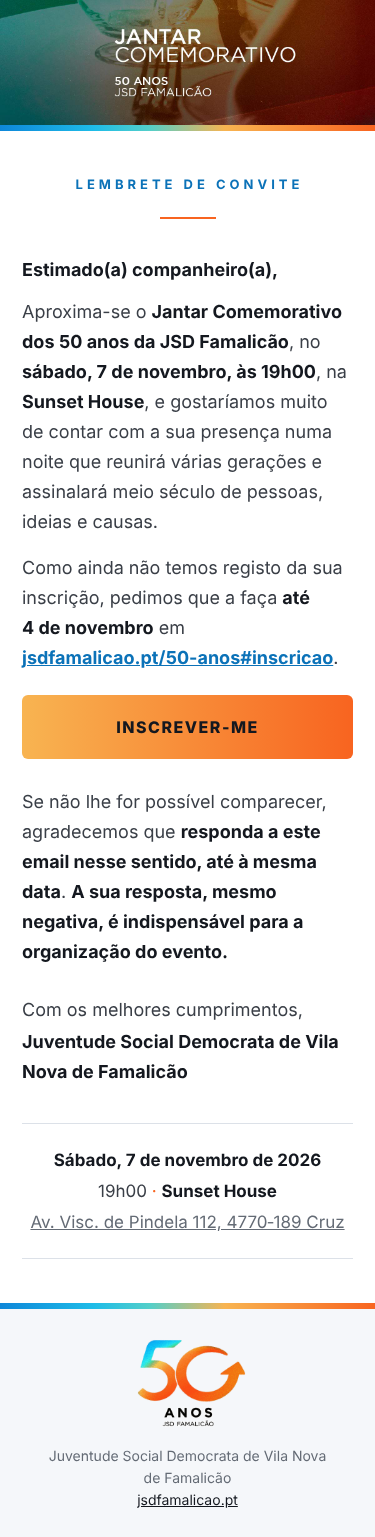
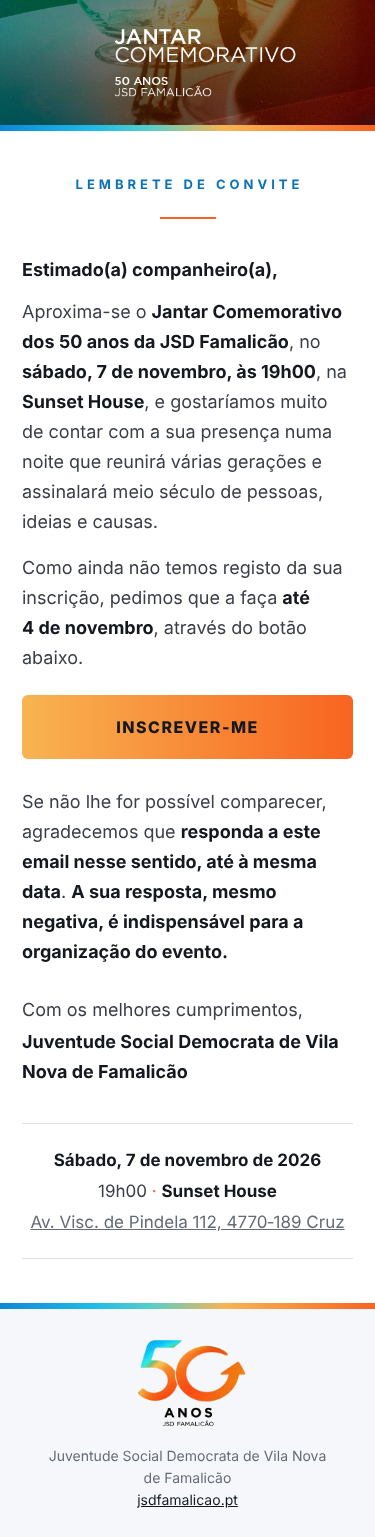
Email: follow-up institucional só com o botão de inscrição, sem o link no texto
Claude-Session: https://claude.ai/code/session_01HmCa1vTjDHZDtaefdz4YMz

Changed region(s): [[0.0587, 0.406, 0.88, 0.4372]]

diff --git a/email/jsd-50-anos-institucional-followup/copiar-email.html b/email/jsd-50-anos-institucional-followup/copiar-email.html
@@ -47,7 +47,7 @@
   </div>
 </main>
 <script>
-  const CONVITES = {"followup": {"html": "<!DOCTYPE html>\n<html lang=\"pt-PT\">\n<head>\n  <meta charset=\"UTF-8\">\n  <meta name=\"viewport\" content=\"width=device-width, initial-scale=1.0\">\n  <meta name=\"color-scheme\" content=\"light only\">\n  <meta name=\"supported-color-schemes\" content=\"light only\">\n  <meta name=\"format-detection\" content=\"telephone=no, date=no, address=no, email=no\">\n  <meta name=\"x-apple-disable-message-reformatting\">\n  <title>Convite · Jantar Comemorativo dos 50 anos da JSD Famalicão · Pedido de resposta<\/title>\n  <style>\n    body { -webkit-text-size-adjust:100%; -ms-text-size-adjust:100%; }\n    :root { color-scheme:light only; supported-color-schemes:light only; }\n    a[x-apple-data-detectors] { color:inherit !important; text-decoration:none !important; font-size:inherit !important; font-family:inherit !important; font-weight:inherit !important; line-height:inherit !important; }\n    @media only screen and (max-width:600px) {\n      .px          { padding-left:22px !important; padding-right:22px !important; }\n      .t-etiqueta  { font-size:13px !important; line-height:18px !important; }\n      .t-corpo     { font-size:18px !important; line-height:30px !important; }\n      .t-lead2     { font-size:20px !important; line-height:28px !important; }\n      .t-dados     { font-size:17px !important; line-height:28px !important; }\n      .t-ligacao   { font-size:14px !important; line-height:22px !important; }\n      .t-rodape    { font-size:14px !important; line-height:22px !important; }\n      .btn-tabela  { width:100% !important; }\n      .btn         { display:block !important; padding:21px 12px !important; font-size:16px !important; }\n    }\n  <\/style>\n<\/head>\n\n<!-- Gerado por src/gerar.py. Banner e barras a toda a largura; texto numa coluna de até 1040 px. -->\n\n<body style=\"margin:0; padding:0; background-color:#FFFFFF;\">\n\n  <div style=\"display:none; max-height:0; overflow:hidden; opacity:0; font-size:1px; line-height:1px; color:#FFFFFF;\">\n    Reiteramos o convite para 7 de novembro e agradecemos a sua resposta. Inscrição até 4 de novembro.\n    &#8199;&#847;&#8199;&#847;&#8199;&#847;&#8199;&#847;&#8199;&#847;&#8199;&#847;&#8199;&#847;&#8199;&#847;\n  <\/div>\n\n  <table role=\"presentation\" width=\"100%\" cellpadding=\"0\" cellspacing=\"0\" border=\"0\" bgcolor=\"#FFFFFF\" style=\"min-width:100%; background-color:#FFFFFF; font-family:Montserrat,'Helvetica Neue',Helvetica,Arial,sans-serif; -webkit-text-size-adjust:100%; -ms-text-size-adjust:100%; color-scheme:light only;\">\n\n    <tr>\n      <td align=\"center\" bgcolor=\"#554835\" style=\"background-color:#554835; font-size:0; line-height:0; text-align:center;\">\n        <img src=\"https://raw.githubusercontent.com/filipaf18/filipa-freitas-portfolio/213aef5628d4d71de076a4b38431e48593f2542e/email/jsd-50-anos-ultimas-inscricoes/imagens/banner.jpg\" width=\"640\" alt=\"Jantar Comemorativo. 50 anos JSD Famalicão.\"\n             style=\"display:block; min-width:100%; max-width:100%; height:auto; border:0; outline:none; color:#FFFFFF; font-family:Montserrat,'Helvetica Neue',Helvetica,Arial,sans-serif; font-size:20px; line-height:28px; text-align:center;\">\n      <\/td>\n    <\/tr>\n    <tr>\n      <td height=\"6\" bgcolor=\"#F86420\" style=\"height:6px; font-size:6px; line-height:6px; background-color:#F86420; background-image:linear-gradient(90deg,#0E87D9 0%,#1EBCE8 25%,#54CFC9 40%,#F8B451 60%,#F86420 100%);\">&nbsp;<\/td>\n    <\/tr>\n\n    <tr>\n      <td style=\"padding:0;\">\n        <table role=\"presentation\" align=\"center\" width=\"100%\" cellpadding=\"0\" cellspacing=\"0\" border=\"0\" style=\"max-width:1040px; margin:0 auto;\">\n\n          <tr>\n            <td class=\"px t-etiqueta\" align=\"center\" style=\"padding:44px 24px 0px 24px; font-family:Montserrat,'Helvetica Neue',Helvetica,Arial,sans-serif; font-size:12px; line-height:16px; font-weight:700; letter-spacing:4px; color:#0B72B8; text-align:center;\">LEMBRETE DE CONVIT<span style=\"letter-spacing:0;\">E<\/span><\/td>\n          <\/tr>\n          <tr>\n            <td align=\"center\" style=\"padding:24px 24px 0px 24px; text-align:center;\">\n              <table role=\"presentation\" align=\"center\" cellpadding=\"0\" cellspacing=\"0\" border=\"0\" style=\"margin:0 auto;\">\n                <tr><td width=\"56\" height=\"2\" bgcolor=\"#F86420\" style=\"width:56px; height:2px; background-color:#F86420; font-size:2px; line-height:2px;\">&nbsp;<\/td><\/tr>\n              <\/table>\n            <\/td>\n          <\/tr>\n          <tr>\n            <td class=\"px t-corpo\" align=\"left\" style=\"padding:36px 24px 0px 24px; font-family:Montserrat,'Helvetica Neue',Helvetica,Arial,sans-serif; font-size:16px; line-height:27px; font-weight:700; color:#14181F; text-align:left;\">Estimado(a) companheiro(a),<\/td>\n          <\/tr>\n          <tr>\n            <td class=\"px t-corpo\" align=\"left\" style=\"padding:12px 24px 0px 24px; font-family:Montserrat,'Helvetica Neue',Helvetica,Arial,sans-serif; font-size:16px; line-height:27px; color:#3A3F47; text-align:left;\">Aproxima-se o <strong style=\"color:#14181F;\">Jantar Comemorativo dos 50&nbsp;anos da JSD Famalicão<\/strong>, no <strong style=\"color:#14181F;\">sábado, 7&nbsp;de&nbsp;novembro, às&nbsp;19h00<\/strong>, na <strong style=\"color:#14181F;\">Sunset&nbsp;House<\/strong>, e gostaríamos muito de contar com a sua presença numa noite que reunirá várias gerações e assinalará meio século de pessoas, ideias e causas.<\/td>\n          <\/tr>\n          <tr>\n            <td class=\"px t-corpo\" align=\"left\" style=\"padding:16px 24px 0px 24px; font-family:Montserrat,'Helvetica Neue',Helvetica,Arial,sans-serif; font-size:16px; line-height:27px; color:#3A3F47; text-align:left;\">Como ainda não temos registo da sua inscrição, pedimos que a faça <strong style=\"color:#14181F;\">até 4&nbsp;de&nbsp;novembro<\/strong> em <a href=\"https://jsdfamalicao.pt/50-anos#inscricao\" style=\"color:#0B72B8; text-decoration:underline; font-weight:700;\">jsdfamalicao.pt/50-anos#inscricao<\/a>.<\/td>\n          <\/tr>\n          <tr>\n            <td class=\"px\" align=\"center\" style=\"padding:22px 24px 0px 24px; text-align:center;\">\n              <table class=\"btn-tabela\" role=\"presentation\" width=\"100%\" cellpadding=\"0\" cellspacing=\"0\" border=\"0\" align=\"center\" style=\"max-width:340px; margin:0 auto;\">\n                <tr>\n                  <td align=\"center\" bgcolor=\"#F86420\" style=\"background-color:#F86420; background-image:linear-gradient(90deg,#F8B451 0%,#F86420 100%); border-radius:6px; text-align:center;\">\n                    <a class=\"btn\" href=\"https://jsdfamalicao.pt/50-anos#inscricao\" style=\"display:inline-block; padding:19px 20px; font-family:Montserrat,'Helvetica Neue',Helvetica,Arial,sans-serif; font-size:15px; line-height:22px; font-weight:800; letter-spacing:1.5px; color:#14181F; text-decoration:none; text-align:center;\">INSCREVER-ME<\/a>\n                  <\/td>\n                <\/tr>\n              <\/table>\n            <\/td>\n          <\/tr>\n          <tr>\n            <td class=\"px t-corpo\" align=\"left\" style=\"padding:28px 24px 0px 24px; font-family:Montserrat,'Helvetica Neue',Helvetica,Arial,sans-serif; font-size:16px; line-height:27px; color:#3A3F47; text-align:left;\">Se não lhe for possível comparecer, agradecemos que <strong style=\"color:#14181F;\">responda a este email nesse sentido, até à mesma data<\/strong>. <strong style=\"color:#14181F;\">A sua resposta, mesmo negativa, é indispensável para a organização do evento.<\/strong><\/td>\n          <\/tr>\n          <tr>\n            <td class=\"px t-corpo\" align=\"left\" style=\"padding:28px 24px 0px 24px; font-family:Montserrat,'Helvetica Neue',Helvetica,Arial,sans-serif; font-size:16px; line-height:27px; color:#3A3F47; text-align:left;\">Com os melhores cumprimentos,<\/td>\n          <\/tr>\n          <tr>\n            <td class=\"px t-corpo\" align=\"left\" style=\"padding:2px 24px 0px 24px; font-family:Montserrat,'Helvetica Neue',Helvetica,Arial,sans-serif; font-size:16px; line-height:25px; font-weight:700; color:#14181F; text-align:left;\">Juventude Social Democrata de Vila Nova de&nbsp;Famalicão<\/td>\n          <\/tr>\n          <tr>\n            <td class=\"px\" style=\"padding:36px 24px 0 24px;\">\n              <div style=\"border-top:1px solid #DCE1E8; border-bottom:1px solid #DCE1E8; padding:22px 0; text-align:center;\">\n                <div class=\"t-dados\" style=\"text-align:center; font-family:Montserrat,'Helvetica Neue',Helvetica,Arial,sans-serif; font-size:15px; line-height:26px; color:#3A3F47;\"><strong style=\"color:#14181F;\">Sábado, 7&nbsp;de&nbsp;novembro de&nbsp;2026<\/strong><\/div>\n                <div class=\"t-dados\" style=\"padding-top:3px; text-align:center; font-family:Montserrat,'Helvetica Neue',Helvetica,Arial,sans-serif; font-size:15px; line-height:26px; color:#3A3F47;\">19h00<span style=\"color:#F86420;\">&nbsp;·&nbsp;<\/span><strong style=\"color:#14181F;\">Sunset&nbsp;House<\/strong><\/div>\n                <div class=\"t-dados\" style=\"padding-top:3px; text-align:center; font-family:Montserrat,'Helvetica Neue',Helvetica,Arial,sans-serif; font-size:15px; line-height:26px; color:#3A3F47;\"><a href=\"https://www.google.com/maps/search/?api=1&amp;query=Av.+Visconde+de+Pindela+112,+4770-189+Cruz\" style=\"color:#646B75; text-decoration:underline;\">Av. Visc. de Pindela 112, 4770&#8209;189 Cruz<\/a><\/div>\n              <\/div>\n            <\/td>\n          <\/tr>\n          <tr>\n            <td class=\"px t-corpo\" align=\"left\" style=\"padding:0px 24px 44px 24px; font-family:Montserrat,'Helvetica Neue',Helvetica,Arial,sans-serif; font-size:16px; line-height:27px; color:#3A3F47; text-align:left;\"><\/td>\n          <\/tr>\n        <\/table>\n      <\/td>\n    <\/tr>\n\n    <tr>\n      <td height=\"6\" bgcolor=\"#F86420\" style=\"height:6px; font-size:6px; line-height:6px; background-color:#F86420; background-image:linear-gradient(90deg,#0E87D9 0%,#1EBCE8 25%,#54CFC9 40%,#F8B451 60%,#F86420 100%);\">&nbsp;<\/td>\n    <\/tr>\n\n    <tr>\n      <td class=\"px\" align=\"center\" bgcolor=\"#F5F7FA\" style=\"background-color:#F5F7FA; padding:28px 24px 26px 24px; font-family:Montserrat,'Helvetica Neue',Helvetica,Arial,sans-serif; text-align:center;\">\n        <table role=\"presentation\" align=\"center\" width=\"100%\" cellpadding=\"0\" cellspacing=\"0\" border=\"0\" style=\"margin:0 auto;\">\n          <tr><td align=\"center\" style=\"font-size:0; line-height:0; text-align:center;\"><table role=\"presentation\" align=\"center\" cellpadding=\"0\" cellspacing=\"0\" border=\"0\" style=\"margin:0 auto;\"><tr><td style=\"font-size:0; line-height:0;\"><img src=\"https://raw.githubusercontent.com/filipaf18/filipa-freitas-portfolio/213aef5628d4d71de076a4b38431e48593f2542e/email/jsd-50-anos-ultimas-inscricoes/imagens/logo-50-anos.png\" width=\"120\" alt=\"50 anos JSD Famalicão\" style=\"display:block; width:120px; max-width:100%; height:auto; border:0; outline:none; color:#14181F; font-family:Montserrat,'Helvetica Neue',Helvetica,Arial,sans-serif; font-size:16px; line-height:22px;\"><\/td><\/tr><\/table><\/td><\/tr>\n          <tr><td class=\"t-rodape\" align=\"center\" style=\"padding-top:16px; font-family:Montserrat,'Helvetica Neue',Helvetica,Arial,sans-serif; font-size:12px; line-height:19px; color:#646B75; text-align:center;\">Juventude Social Democrata de Vila&nbsp;Nova de&nbsp;Famalicão<br><a href=\"https://jsdfamalicao.pt\" style=\"color:#14181F; text-decoration:underline;\">jsdfamalicao.pt<\/a><\/td><\/tr>\n        <\/table>\n      <\/td>\n    <\/tr>\n\n  <\/table>\n\n<\/body>\n<\/html>\n", "texto": "LEMBRETE DE CONVITE\n\nEstimado(a) companheiro(a),\n\nAproxima-se o Jantar Comemorativo dos 50 anos da JSD Famalicão, no sábado, 7 de novembro, às 19h00, na Sunset House, e gostaríamos muito de contar com a sua presença numa noite que reunirá várias gerações e assinalará meio século de pessoas, ideias e causas.\n\nComo ainda não temos registo da sua inscrição, pedimos que a faça até 4 de novembro em jsdfamalicao.pt/50-anos#inscricao.\n\nINSCREVER-ME\n\nSe não lhe for possível comparecer, agradecemos que responda a este email nesse sentido, até à mesma data. A sua resposta, mesmo negativa, é indispensável para a organização do evento.\n\nCom os melhores cumprimentos,\n\nJuventude Social Democrata de Vila Nova de Famalicão\n\nSábado, 7 de novembro de 2026\n19h00 · Sunset House\nAv. Visc. de Pindela 112, 4770‑189 Cruz\n\nJuventude Social Democrata de Vila Nova de Famalicão\njsdfamalicao.pt", "assunto": "Convite · Jantar Comemorativo dos 50 anos da JSD Famalicão · Pedido de resposta"}};
+  const CONVITES = {"followup": {"html": "<!DOCTYPE html>\n<html lang=\"pt-PT\">\n<head>\n  <meta charset=\"UTF-8\">\n  <meta name=\"viewport\" content=\"width=device-width, initial-scale=1.0\">\n  <meta name=\"color-scheme\" content=\"light only\">\n  <meta name=\"supported-color-schemes\" content=\"light only\">\n  <meta name=\"format-detection\" content=\"telephone=no, date=no, address=no, email=no\">\n  <meta name=\"x-apple-disable-message-reformatting\">\n  <title>Convite · Jantar Comemorativo dos 50 anos da JSD Famalicão · Pedido de resposta<\/title>\n  <style>\n    body { -webkit-text-size-adjust:100%; -ms-text-size-adjust:100%; }\n    :root { color-scheme:light only; supported-color-schemes:light only; }\n    a[x-apple-data-detectors] { color:inherit !important; text-decoration:none !important; font-size:inherit !important; font-family:inherit !important; font-weight:inherit !important; line-height:inherit !important; }\n    @media only screen and (max-width:600px) {\n      .px          { padding-left:22px !important; padding-right:22px !important; }\n      .t-etiqueta  { font-size:13px !important; line-height:18px !important; }\n      .t-corpo     { font-size:18px !important; line-height:30px !important; }\n      .t-lead2     { font-size:20px !important; line-height:28px !important; }\n      .t-dados     { font-size:17px !important; line-height:28px !important; }\n      .t-ligacao   { font-size:14px !important; line-height:22px !important; }\n      .t-rodape    { font-size:14px !important; line-height:22px !important; }\n      .btn-tabela  { width:100% !important; }\n      .btn         { display:block !important; padding:21px 12px !important; font-size:16px !important; }\n    }\n  <\/style>\n<\/head>\n\n<!-- Gerado por src/gerar.py. Banner e barras a toda a largura; texto numa coluna de até 1040 px. -->\n\n<body style=\"margin:0; padding:0; background-color:#FFFFFF;\">\n\n  <div style=\"display:none; max-height:0; overflow:hidden; opacity:0; font-size:1px; line-height:1px; color:#FFFFFF;\">\n    Reiteramos o convite para 7 de novembro e agradecemos a sua resposta. Inscrição até 4 de novembro.\n    &#8199;&#847;&#8199;&#847;&#8199;&#847;&#8199;&#847;&#8199;&#847;&#8199;&#847;&#8199;&#847;&#8199;&#847;\n  <\/div>\n\n  <table role=\"presentation\" width=\"100%\" cellpadding=\"0\" cellspacing=\"0\" border=\"0\" bgcolor=\"#FFFFFF\" style=\"min-width:100%; background-color:#FFFFFF; font-family:Montserrat,'Helvetica Neue',Helvetica,Arial,sans-serif; -webkit-text-size-adjust:100%; -ms-text-size-adjust:100%; color-scheme:light only;\">\n\n    <tr>\n      <td align=\"center\" bgcolor=\"#554835\" style=\"background-color:#554835; font-size:0; line-height:0; text-align:center;\">\n        <img src=\"https://raw.githubusercontent.com/filipaf18/filipa-freitas-portfolio/213aef5628d4d71de076a4b38431e48593f2542e/email/jsd-50-anos-ultimas-inscricoes/imagens/banner.jpg\" width=\"640\" alt=\"Jantar Comemorativo. 50 anos JSD Famalicão.\"\n             style=\"display:block; min-width:100%; max-width:100%; height:auto; border:0; outline:none; color:#FFFFFF; font-family:Montserrat,'Helvetica Neue',Helvetica,Arial,sans-serif; font-size:20px; line-height:28px; text-align:center;\">\n      <\/td>\n    <\/tr>\n    <tr>\n      <td height=\"6\" bgcolor=\"#F86420\" style=\"height:6px; font-size:6px; line-height:6px; background-color:#F86420; background-image:linear-gradient(90deg,#0E87D9 0%,#1EBCE8 25%,#54CFC9 40%,#F8B451 60%,#F86420 100%);\">&nbsp;<\/td>\n    <\/tr>\n\n    <tr>\n      <td style=\"padding:0;\">\n        <table role=\"presentation\" align=\"center\" width=\"100%\" cellpadding=\"0\" cellspacing=\"0\" border=\"0\" style=\"max-width:1040px; margin:0 auto;\">\n\n          <tr>\n            <td class=\"px t-etiqueta\" align=\"center\" style=\"padding:44px 24px 0px 24px; font-family:Montserrat,'Helvetica Neue',Helvetica,Arial,sans-serif; font-size:12px; line-height:16px; font-weight:700; letter-spacing:4px; color:#0B72B8; text-align:center;\">LEMBRETE DE CONVIT<span style=\"letter-spacing:0;\">E<\/span><\/td>\n          <\/tr>\n          <tr>\n            <td align=\"center\" style=\"padding:24px 24px 0px 24px; text-align:center;\">\n              <table role=\"presentation\" align=\"center\" cellpadding=\"0\" cellspacing=\"0\" border=\"0\" style=\"margin:0 auto;\">\n                <tr><td width=\"56\" height=\"2\" bgcolor=\"#F86420\" style=\"width:56px; height:2px; background-color:#F86420; font-size:2px; line-height:2px;\">&nbsp;<\/td><\/tr>\n              <\/table>\n            <\/td>\n          <\/tr>\n          <tr>\n            <td class=\"px t-corpo\" align=\"left\" style=\"padding:36px 24px 0px 24px; font-family:Montserrat,'Helvetica Neue',Helvetica,Arial,sans-serif; font-size:16px; line-height:27px; font-weight:700; color:#14181F; text-align:left;\">Estimado(a) companheiro(a),<\/td>\n          <\/tr>\n          <tr>\n            <td class=\"px t-corpo\" align=\"left\" style=\"padding:12px 24px 0px 24px; font-family:Montserrat,'Helvetica Neue',Helvetica,Arial,sans-serif; font-size:16px; line-height:27px; color:#3A3F47; text-align:left;\">Aproxima-se o <strong style=\"color:#14181F;\">Jantar Comemorativo dos 50&nbsp;anos da JSD Famalicão<\/strong>, no <strong style=\"color:#14181F;\">sábado, 7&nbsp;de&nbsp;novembro, às&nbsp;19h00<\/strong>, na <strong style=\"color:#14181F;\">Sunset&nbsp;House<\/strong>, e gostaríamos muito de contar com a sua presença numa noite que reunirá várias gerações e assinalará meio século de pessoas, ideias e causas.<\/td>\n          <\/tr>\n          <tr>\n            <td class=\"px t-corpo\" align=\"left\" style=\"padding:16px 24px 0px 24px; font-family:Montserrat,'Helvetica Neue',Helvetica,Arial,sans-serif; font-size:16px; line-height:27px; color:#3A3F47; text-align:left;\">Como ainda não temos registo da sua inscrição, pedimos que a faça <strong style=\"color:#14181F;\">até 4&nbsp;de&nbsp;novembro<\/strong>, através do botão abaixo.<\/td>\n          <\/tr>\n          <tr>\n            <td class=\"px\" align=\"center\" style=\"padding:22px 24px 0px 24px; text-align:center;\">\n              <table class=\"btn-tabela\" role=\"presentation\" width=\"100%\" cellpadding=\"0\" cellspacing=\"0\" border=\"0\" align=\"center\" style=\"max-width:340px; margin:0 auto;\">\n                <tr>\n                  <td align=\"center\" bgcolor=\"#F86420\" style=\"background-color:#F86420; background-image:linear-gradient(90deg,#F8B451 0%,#F86420 100%); border-radius:6px; text-align:center;\">\n                    <a class=\"btn\" href=\"https://jsdfamalicao.pt/50-anos#inscricao\" style=\"display:inline-block; padding:19px 20px; font-family:Montserrat,'Helvetica Neue',Helvetica,Arial,sans-serif; font-size:15px; line-height:22px; font-weight:800; letter-spacing:1.5px; color:#14181F; text-decoration:none; text-align:center;\">INSCREVER-ME<\/a>\n                  <\/td>\n                <\/tr>\n              <\/table>\n            <\/td>\n          <\/tr>\n          <tr>\n            <td class=\"px t-corpo\" align=\"left\" style=\"padding:28px 24px 0px 24px; font-family:Montserrat,'Helvetica Neue',Helvetica,Arial,sans-serif; font-size:16px; line-height:27px; color:#3A3F47; text-align:left;\">Se não lhe for possível comparecer, agradecemos que <strong style=\"color:#14181F;\">responda a este email nesse sentido, até à mesma data<\/strong>. <strong style=\"color:#14181F;\">A sua resposta, mesmo negativa, é indispensável para a organização do evento.<\/strong><\/td>\n          <\/tr>\n          <tr>\n            <td class=\"px t-corpo\" align=\"left\" style=\"padding:28px 24px 0px 24px; font-family:Montserrat,'Helvetica Neue',Helvetica,Arial,sans-serif; font-size:16px; line-height:27px; color:#3A3F47; text-align:left;\">Com os melhores cumprimentos,<\/td>\n          <\/tr>\n          <tr>\n            <td class=\"px t-corpo\" align=\"left\" style=\"padding:2px 24px 0px 24px; font-family:Montserrat,'Helvetica Neue',Helvetica,Arial,sans-serif; font-size:16px; line-height:25px; font-weight:700; color:#14181F; text-align:left;\">Juventude Social Democrata de Vila Nova de&nbsp;Famalicão<\/td>\n          <\/tr>\n          <tr>\n            <td class=\"px\" style=\"padding:36px 24px 0 24px;\">\n              <div style=\"border-top:1px solid #DCE1E8; border-bottom:1px solid #DCE1E8; padding:22px 0; text-align:center;\">\n                <div class=\"t-dados\" style=\"text-align:center; font-family:Montserrat,'Helvetica Neue',Helvetica,Arial,sans-serif; font-size:15px; line-height:26px; color:#3A3F47;\"><strong style=\"color:#14181F;\">Sábado, 7&nbsp;de&nbsp;novembro de&nbsp;2026<\/strong><\/div>\n                <div class=\"t-dados\" style=\"padding-top:3px; text-align:center; font-family:Montserrat,'Helvetica Neue',Helvetica,Arial,sans-serif; font-size:15px; line-height:26px; color:#3A3F47;\">19h00<span style=\"color:#F86420;\">&nbsp;·&nbsp;<\/span><strong style=\"color:#14181F;\">Sunset&nbsp;House<\/strong><\/div>\n                <div class=\"t-dados\" style=\"padding-top:3px; text-align:center; font-family:Montserrat,'Helvetica Neue',Helvetica,Arial,sans-serif; font-size:15px; line-height:26px; color:#3A3F47;\"><a href=\"https://www.google.com/maps/search/?api=1&amp;query=Av.+Visconde+de+Pindela+112,+4770-189+Cruz\" style=\"color:#646B75; text-decoration:underline;\">Av. Visc. de Pindela 112, 4770&#8209;189 Cruz<\/a><\/div>\n              <\/div>\n            <\/td>\n          <\/tr>\n          <tr>\n            <td class=\"px t-corpo\" align=\"left\" style=\"padding:0px 24px 44px 24px; font-family:Montserrat,'Helvetica Neue',Helvetica,Arial,sans-serif; font-size:16px; line-height:27px; color:#3A3F47; text-align:left;\"><\/td>\n          <\/tr>\n        <\/table>\n      <\/td>\n    <\/tr>\n\n    <tr>\n      <td height=\"6\" bgcolor=\"#F86420\" style=\"height:6px; font-size:6px; line-height:6px; background-color:#F86420; background-image:linear-gradient(90deg,#0E87D9 0%,#1EBCE8 25%,#54CFC9 40%,#F8B451 60%,#F86420 100%);\">&nbsp;<\/td>\n    <\/tr>\n\n    <tr>\n      <td class=\"px\" align=\"center\" bgcolor=\"#F5F7FA\" style=\"background-color:#F5F7FA; padding:28px 24px 26px 24px; font-family:Montserrat,'Helvetica Neue',Helvetica,Arial,sans-serif; text-align:center;\">\n        <table role=\"presentation\" align=\"center\" width=\"100%\" cellpadding=\"0\" cellspacing=\"0\" border=\"0\" style=\"margin:0 auto;\">\n          <tr><td align=\"center\" style=\"font-size:0; line-height:0; text-align:center;\"><table role=\"presentation\" align=\"center\" cellpadding=\"0\" cellspacing=\"0\" border=\"0\" style=\"margin:0 auto;\"><tr><td style=\"font-size:0; line-height:0;\"><img src=\"https://raw.githubusercontent.com/filipaf18/filipa-freitas-portfolio/213aef5628d4d71de076a4b38431e48593f2542e/email/jsd-50-anos-ultimas-inscricoes/imagens/logo-50-anos.png\" width=\"120\" alt=\"50 anos JSD Famalicão\" style=\"display:block; width:120px; max-width:100%; height:auto; border:0; outline:none; color:#14181F; font-family:Montserrat,'Helvetica Neue',Helvetica,Arial,sans-serif; font-size:16px; line-height:22px;\"><\/td><\/tr><\/table><\/td><\/tr>\n          <tr><td class=\"t-rodape\" align=\"center\" style=\"padding-top:16px; font-family:Montserrat,'Helvetica Neue',Helvetica,Arial,sans-serif; font-size:12px; line-height:19px; color:#646B75; text-align:center;\">Juventude Social Democrata de Vila&nbsp;Nova de&nbsp;Famalicão<br><a href=\"https://jsdfamalicao.pt\" style=\"color:#14181F; text-decoration:underline;\">jsdfamalicao.pt<\/a><\/td><\/tr>\n        <\/table>\n      <\/td>\n    <\/tr>\n\n  <\/table>\n\n<\/body>\n<\/html>\n", "texto": "LEMBRETE DE CONVITE\n\nEstimado(a) companheiro(a),\n\nAproxima-se o Jantar Comemorativo dos 50 anos da JSD Famalicão, no sábado, 7 de novembro, às 19h00, na Sunset House, e gostaríamos muito de contar com a sua presença numa noite que reunirá várias gerações e assinalará meio século de pessoas, ideias e causas.\n\nComo ainda não temos registo da sua inscrição, pedimos que a faça até 4 de novembro, através do botão abaixo.\n\nINSCREVER-ME\n\nSe não lhe for possível comparecer, agradecemos que responda a este email nesse sentido, até à mesma data. A sua resposta, mesmo negativa, é indispensável para a organização do evento.\n\nCom os melhores cumprimentos,\n\nJuventude Social Democrata de Vila Nova de Famalicão\n\nSábado, 7 de novembro de 2026\n19h00 · Sunset House\nAv. Visc. de Pindela 112, 4770‑189 Cruz\n\nJuventude Social Democrata de Vila Nova de Famalicão\njsdfamalicao.pt", "assunto": "Convite · Jantar Comemorativo dos 50 anos da JSD Famalicão · Pedido de resposta"}};
   function copiar(tipo, texto, estado, mensagem) {
     let feito = false;
     const aoCopiar = (e) => {

diff --git a/email/jsd-50-anos-institucional-followup/apps-script/followup_institucional.html b/email/jsd-50-anos-institucional-followup/apps-script/followup_institucional.html
@@ -68,7 +68,7 @@
             <td class="px t-corpo" align="left" style="padding:12px 24px 0px 24px; font-family:Montserrat,'Helvetica Neue',Helvetica,Arial,sans-serif; font-size:16px; line-height:27px; color:#3A3F47; text-align:left;">Aproxima-se o <strong style="color:#14181F;">Jantar Comemorativo dos 50&nbsp;anos da JSD Famalicão</strong>, no <strong style="color:#14181F;">sábado, 7&nbsp;de&nbsp;novembro, às&nbsp;19h00</strong>, na <strong style="color:#14181F;">Sunset&nbsp;House</strong>, e gostaríamos muito de contar com a sua presença numa noite que reunirá várias gerações e assinalará meio século de pessoas, ideias e causas.</td>
           </tr>
           <tr>
-            <td class="px t-corpo" align="left" style="padding:16px 24px 0px 24px; font-family:Montserrat,'Helvetica Neue',Helvetica,Arial,sans-serif; font-size:16px; line-height:27px; color:#3A3F47; text-align:left;">Como ainda não temos registo da sua inscrição, pedimos que a faça <strong style="color:#14181F;">até 4&nbsp;de&nbsp;novembro</strong> em <a href="https://jsdfamalicao.pt/50-anos#inscricao" style="color:#0B72B8; text-decoration:underline; font-weight:700;">jsdfamalicao.pt/50-anos#inscricao</a>.</td>
+            <td class="px t-corpo" align="left" style="padding:16px 24px 0px 24px; font-family:Montserrat,'Helvetica Neue',Helvetica,Arial,sans-serif; font-size:16px; line-height:27px; color:#3A3F47; text-align:left;">Como ainda não temos registo da sua inscrição, pedimos que a faça <strong style="color:#14181F;">até 4&nbsp;de&nbsp;novembro</strong>, através do botão abaixo.</td>
           </tr>
           <tr>
             <td class="px" align="center" style="padding:22px 24px 0px 24px; text-align:center;">

diff --git a/email/jsd-50-anos-institucional-followup/convite.html b/email/jsd-50-anos-institucional-followup/convite.html
@@ -68,7 +68,7 @@
             <td class="px t-corpo" align="left" style="padding:12px 24px 0px 24px; font-family:Montserrat,'Helvetica Neue',Helvetica,Arial,sans-serif; font-size:16px; line-height:27px; color:#3A3F47; text-align:left;">Aproxima-se o <strong style="color:#14181F;">Jantar Comemorativo dos 50&nbsp;anos da JSD Famalicão</strong>, no <strong style="color:#14181F;">sábado, 7&nbsp;de&nbsp;novembro, às&nbsp;19h00</strong>, na <strong style="color:#14181F;">Sunset&nbsp;House</strong>, e gostaríamos muito de contar com a sua presença numa noite que reunirá várias gerações e assinalará meio século de pessoas, ideias e causas.</td>
           </tr>
           <tr>
-            <td class="px t-corpo" align="left" style="padding:16px 24px 0px 24px; font-family:Montserrat,'Helvetica Neue',Helvetica,Arial,sans-serif; font-size:16px; line-height:27px; color:#3A3F47; text-align:left;">Como ainda não temos registo da sua inscrição, pedimos que a faça <strong style="color:#14181F;">até 4&nbsp;de&nbsp;novembro</strong> em <a href="https://jsdfamalicao.pt/50-anos#inscricao" style="color:#0B72B8; text-decoration:underline; font-weight:700;">jsdfamalicao.pt/50-anos#inscricao</a>.</td>
+            <td class="px t-corpo" align="left" style="padding:16px 24px 0px 24px; font-family:Montserrat,'Helvetica Neue',Helvetica,Arial,sans-serif; font-size:16px; line-height:27px; color:#3A3F47; text-align:left;">Como ainda não temos registo da sua inscrição, pedimos que a faça <strong style="color:#14181F;">até 4&nbsp;de&nbsp;novembro</strong>, através do botão abaixo.</td>
           </tr>
           <tr>
             <td class="px" align="center" style="padding:22px 24px 0px 24px; text-align:center;">

diff --git a/email/jsd-50-anos-institucional-followup/src/gerar.py b/email/jsd-50-anos-institucional-followup/src/gerar.py
@@ -33,8 +33,7 @@ PARAGRAFOS = [
     f'Aproxima-se o <strong {FORTE}>Jantar Comemorativo dos 50&nbsp;anos da JSD Famalicão</strong>, no '
     f'<strong {FORTE}>sábado, 7&nbsp;de&nbsp;novembro, às&nbsp;19h00</strong>, na <strong {FORTE}>Sunset&nbsp;House</strong>, '
     'e gostaríamos muito de contar com a sua presença numa noite que reunirá várias gerações e assinalará meio século de pessoas, ideias e causas.',
-    f'Como ainda não temos registo da sua inscrição, pedimos que a faça <strong {FORTE}>até 4&nbsp;de&nbsp;novembro</strong> em '
-    f'<a href="{LINK}" style="color:{AZUL}; text-decoration:underline; font-weight:700;">{LINK_TXT}</a>.',
+    f'Como ainda não temos registo da sua inscrição, pedimos que a faça <strong {FORTE}>até 4&nbsp;de&nbsp;novembro</strong>, através do botão abaixo.',
     f'Se não lhe for possível comparecer, agradecemos que <strong {FORTE}>responda a este email nesse sentido, até à mesma data</strong>. '
     f'<strong {FORTE}>A sua resposta, mesmo negativa, é indispensável para a organização do evento.</strong>',
 ]
